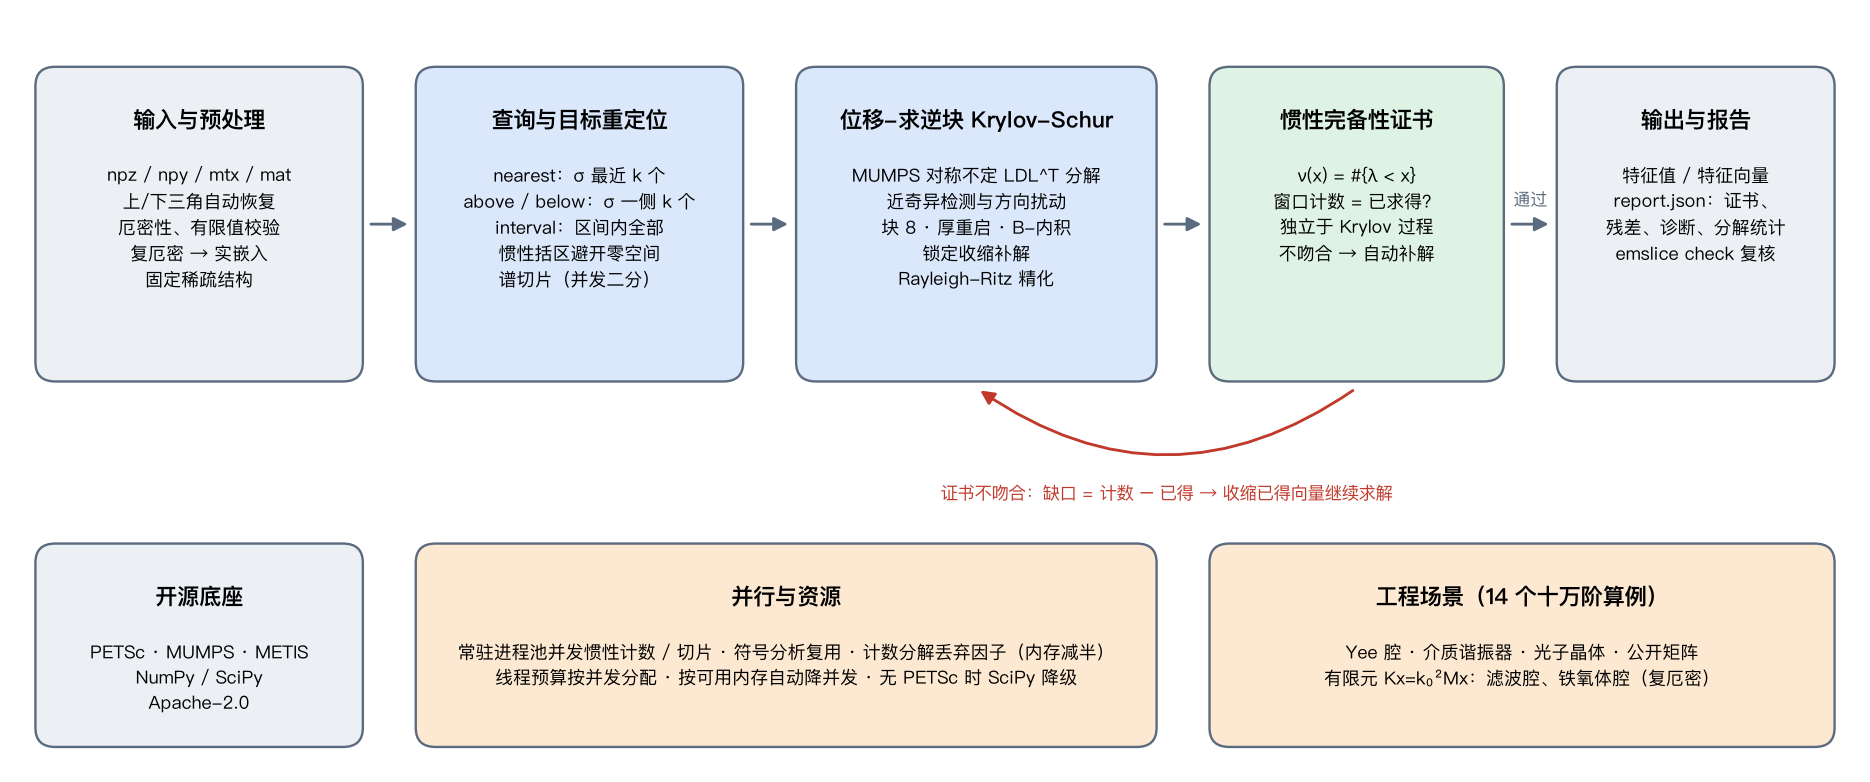
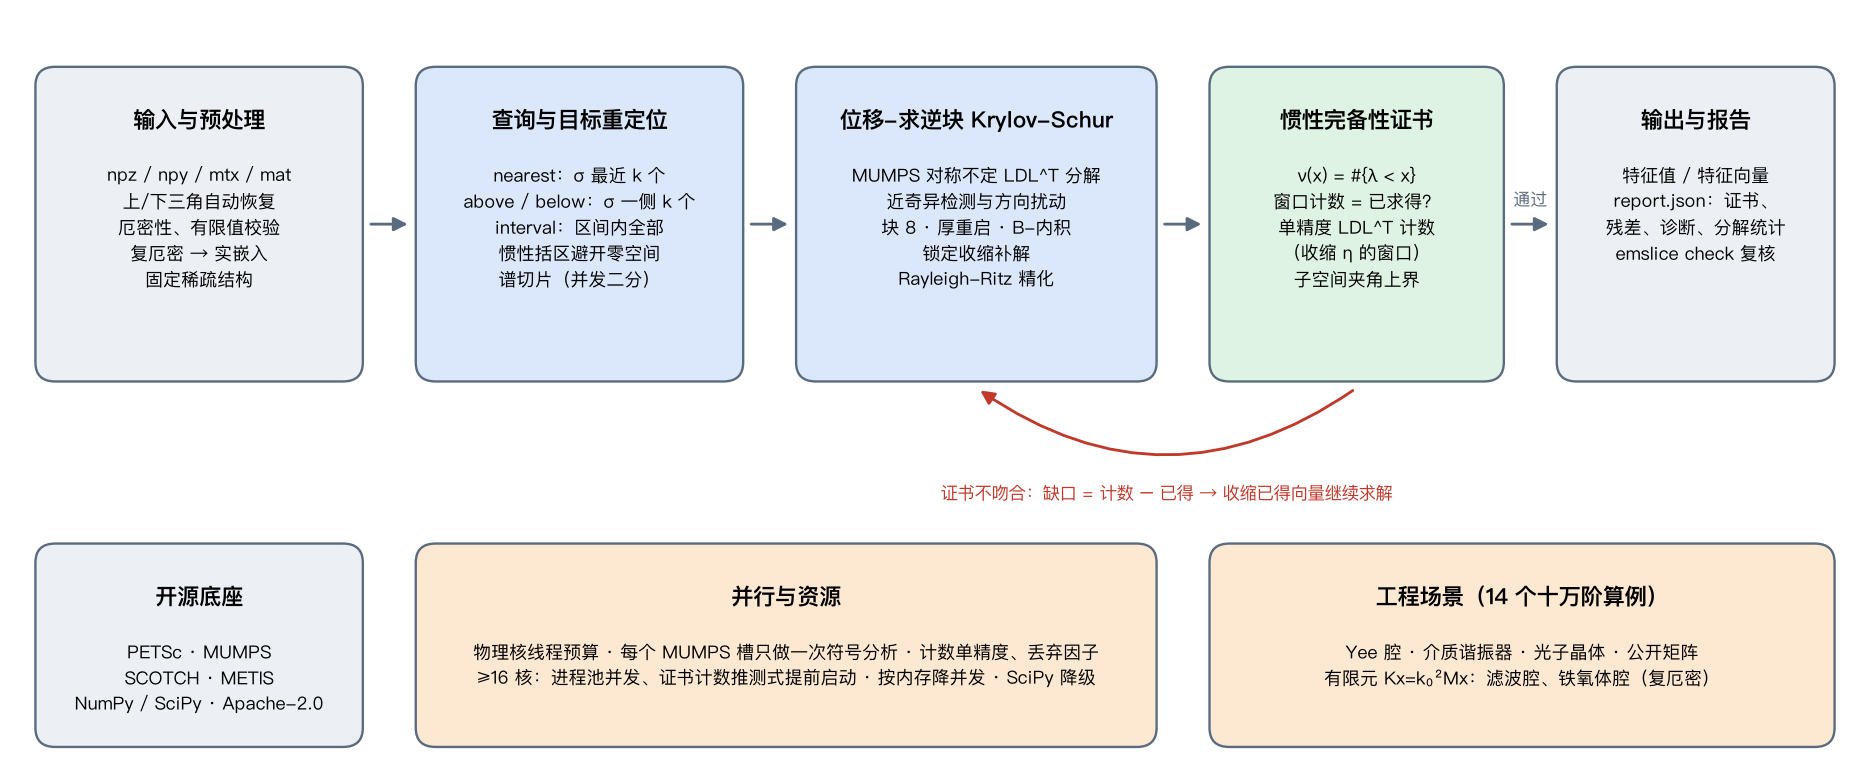
子空间夹角上界：广义问题以 Jacobi-PCG 求 ‖R‖_{B⁻¹}（不再调用 eigsh 估计 λmin(B)，十万阶质量阵上 68 s → 约 1 s）；架构图与汇总脚本

Changed region(s): [[0.2481, 0.798, 0.5893, 0.89], [0.031, 0.8286, 0.1861, 0.9207], [0.6824, 0.2762, 0.7754, 0.3683]]

diff --git a/emslice/solver.py b/emslice/solver.py
@@ -55,7 +55,7 @@ class Options:
     threads: int | None = None
     seed: int = 0
     refine_steps: int = 6
-    workers: int | str = "auto"     # 惯性计数并发进程数（auto = min(3, 线程预算/2)，每进程至少 2 线程）
+    workers: int | str = "auto"     # 计数/切片子进程数（auto：线程预算 ≥16 时 min(3, 预算/8)，否则不开进程池、主进程串行）
     blr: float | None = None        # MUMPS 块低秩压缩精度（None = 关闭）
 
 
@@ -380,6 +380,32 @@ class Solver:
         w, S = la.eigh(Hm, G)
         return w, X @ S
 
+    def _binv_norms(self, R):
+        """各列的 ‖r‖_{B⁻¹} = sqrt(rᴴB⁻¹r)：Jacobi 预条件共轭梯度解 BW = R（B 对称正定，质量阵条件数不大，
+        十万阶有限元质量阵几十步收敛）。B 缺省时即 2-范数。"""
+        if self.B is None:
+            return np.linalg.norm(R, axis=0)
+        d = np.real(self.B.diagonal())
+        W = np.zeros_like(R)
+        Rr = R.copy()
+        Z = Rr / d[:, None]
+        P = Z.copy()
+        rz = np.real(np.einsum("ij,ij->j", Rr.conj(), Z))
+        r0 = np.maximum(np.linalg.norm(R, axis=0), np.finfo(float).tiny)
+        for _ in range(2000):
+            BP = self.B @ P
+            pbp = np.real(np.einsum("ij,ij->j", P.conj(), BP))
+            alpha = np.where(pbp > 0, rz / np.where(pbp > 0, pbp, 1.0), 0.0)
+            W += P * alpha
+            Rr -= BP * alpha
+            if np.all(np.linalg.norm(Rr, axis=0) <= 1e-4 * r0):   # 二次型 rᴴB⁻¹r 的相对误差约为其平方（~1e-8）
+                break
+            Z = Rr / d[:, None]
+            rz_new = np.real(np.einsum("ij,ij->j", Rr.conj(), Z))
+            P = Z + P * np.where(rz > 0, rz_new / np.where(rz > 0, rz, 1.0), 0.0)
+            rz = rz_new
+        return np.sqrt(np.maximum(np.real(np.einsum("ij,ij->j", R.conj(), W)), 0.0))
+
     def _angle_bounds(self, lam, X):
         """特征向量子空间夹角的后验上界（Davis–Kahan sinΘ 定理）。
 
@@ -388,20 +414,16 @@ class Solver:
         δ_C 为簇到“簇外真实特征值”的距离。完备性证书保证窗口内的真实特征值都已求得（各在其 Ritz 值的残差半径内），
         窗口外的特征值离簇至少到窗口边界的距离，因此 δ_C 有可靠下界——没有证书时这一下界无从得知。
         落在证书窗口外的特征值（如与第 k 个并列、按内窗口证书接受的副本）不给上界。
-        广义问题以 λ_min(B) 的 Lanczos 估计折算 B^{-1/2}（估计值，报告中注明）。"""
+        广义问题的 ‖·‖_{B⁻¹} 由共轭梯度求得（见 _binv_norms）。"""
         lo, hi, known = self._known
         known = np.sort(np.asarray(known, dtype=float))
-        bmin = 1.0
-        if self.B is not None:
-            try:
-                import scipy.sparse.linalg as spla
-
-                bmin = 0.5 * float(spla.eigsh(self.B, k=1, which="SA", tol=1e-3, return_eigenvectors=False)[0])
-            except Exception:
-                return dict(subspace_sin_bound_max=None)
         tol_c = 1e-8 * max(np.abs(lam).max(), 1e-3 * self.nA)
         cuts = np.flatnonzero(np.diff(lam) > tol_c) + 1
-        rmax = float(self.residuals(lam, X)[0].max()) / np.sqrt(bmin)
+        # Rayleigh-Ritz 给出的 Ritz 向量彼此 B-正交：按 B-范数归一后各列残差的 ‖·‖_{B⁻¹} 只需一次共轭梯度
+        BX = X if self.B is None else self.B @ X
+        xb = np.sqrt(np.maximum(np.real(np.einsum("ij,ij->j", X.conj(), BX)), np.finfo(float).tiny))
+        nb = self._binv_norms((self.A @ X - BX * lam[None, :]) / xb[None, :])
+        rmax = float(nb.max())
         out = np.full(lam.size, np.nan)
         for idx in np.split(np.arange(lam.size), cuts):
             c_lo, c_hi = lam[idx[0]], lam[idx[-1]]
@@ -414,19 +436,10 @@ class Solver:
             delta = min(gaps)
             if delta <= 0:
                 continue
-            Xc = X[:, idx]
-            BXc = Xc if self.B is None else self.B @ Xc
-            G = Xc.conj().T @ BXc
-            Lc = np.linalg.cholesky(0.5 * (G + G.conj().T))
-            Q = np.linalg.solve(Lc, Xc.conj().T).conj().T          # B-正交化
-            BQ = Q if self.B is None else self.B @ Q
-            Hc = Q.conj().T @ (self.A @ Q)
-            R = self.A @ Q - BQ @ (0.5 * (Hc + Hc.conj().T))
-            out[idx] = min(1.0, np.linalg.norm(R) / np.sqrt(bmin) / delta)
+            out[idx] = min(1.0, float(np.sqrt(np.sum(nb[idx] ** 2))) / delta)
         ok = out[np.isfinite(out)]
         return dict(subspace_sin_bound_max=float(ok.max()) if ok.size else None,
-                    per_eig_subspace_sin_bound=[None if not np.isfinite(v) else float(v) for v in out],
-                    subspace_bound_kind="rigorous" if self.B is None else "estimate(λmin(B) Lanczos)")
+                    per_eig_subspace_sin_bound=[None if not np.isfinite(v) else float(v) for v in out])
 
     # ------------------------------------------------------- 一次位移-求逆求解
     def _shift_invert(self, F, shift, nev, which, locked=None, block=None, v0=None, monitor=None):

diff --git a/bench/summary.py b/bench/summary.py
@@ -1,0 +1,104 @@
+"""合并多个 results 目录并生成文档用的对比表（Markdown）。
+
+python bench/summary.py --out results/kunpeng8-final results/kunpeng8 results/kunpeng8-scipy \
+    --override results/kunpeng8-cplx3 --baseline results/kunpeng8-v01
+
+* 依次读入各目录的 results.jsonl，同一 (算例, 求解器) 以后读入的为准；--override 目录最后读入；
+* --baseline 目录里的 emslice 结果作为“v0.1”列；
+* 输出合并后的 results.jsonl（供 bench/report.py 出图）与 summary.md（文档主表）。
+"""
+from __future__ import annotations
+
+import argparse
+import json
+import os
+
+TITLE = {
+    "cube_mid_band": "立方腔目标频段（σ 恰为 18 重谐振点）",
+    "cube_low_freq": "低频：σ≈0 以上 20 个物理模式（3.2 万重零空间）",
+    "cube_near_singular": "近奇异：σ 与谐振点相对差 1e-13",
+    "cube_null_cluster": "σ 落在零空间上",
+    "cavity_upper_storage": "仅存上三角输入",
+    "dielectric_puck": "介质谐振器（σ 以上 20 个）",
+    "bloch_complex_hermitian": "复厄密（Bloch 周期）",
+    "photonic_crystal": "光子晶体（复厄密 + 介质柱）",
+    "suitesparse_2cubes_low": "公开矩阵 2cubes_sphere 最低 30 个",
+    "suitesparse_2cubes_band": "公开矩阵 2cubes_sphere σ=40 附近 20 个",
+    "fem_cavity_low": "FEM 空腔低频（1.3 万维零空间）",
+    "fem_dr_low": "FEM 介质谐振器低频前 10 个",
+    "fem_dr_band": "FEM 介质谐振器 5 GHz 附近 20 个",
+    "fem_ferrite_band": "FEM 铁氧体腔（复厄密）8.5 GHz 附近 8 个",
+}
+
+
+def load(d):
+    out = {}
+    p = os.path.join(d, "results.jsonl")
+    if not os.path.exists(p):
+        return out
+    for line in open(p, encoding="utf-8"):
+        r = json.loads(line)
+        out[(r["name"], r["solver"])] = r
+    return out
+
+
+def cell(r, ref_k=None, emslice=False):
+    if r is None:
+        return "—"
+    err = r.get("error")
+    if err:
+        return "**超时**" if str(err).startswith("timeout") else "**失败**"
+    t = f"{r['seconds']:.1f} s"
+    back = r.get("backward_max")
+    k = r.get("k") or 0
+    if ref_k is not None and k < ref_k:
+        return f"{t} **返回 {k} 个**" if k == 0 else f"{t} **漏 {ref_k - k} 个**"
+    if (r.get("missing_vs_ref") or 0) > 0:
+        return f"{t} **漏 {r['missing_vs_ref']} 个**"
+    if back is None:
+        return t
+    s = f"{back:.0e}".replace("e-0", "e-")
+    if back > 1e-8:
+        return f"{t} **后向误差 {s}**"
+    if emslice:
+        return f"{t} √ {s}" if r.get("certified") else f"{t} {s}"
+    return f"{t} {s}"
+
+
+def main():
+    ap = argparse.ArgumentParser()
+    ap.add_argument("dirs", nargs="+")
+    ap.add_argument("--override", nargs="*", default=[])
+    ap.add_argument("--baseline")
+    ap.add_argument("--out", required=True)
+    a = ap.parse_args()
+    rows = {}
+    for d in a.dirs + a.override:
+        rows.update(load(d))
+    base = load(a.baseline) if a.baseline else {}
+    os.makedirs(a.out, exist_ok=True)
+    with open(os.path.join(a.out, "results.jsonl"), "w", encoding="utf-8") as f:
+        for r in rows.values():
+            f.write(json.dumps(r, ensure_ascii=False) + "\n")
+    names = [n for n in TITLE if any(k[0] == n for k in rows)]
+    lines = ["| 算例（n≈10 万） | emslice 含证书 | emslice 快速 | v0.1 含证书 | SLEPc | SciPy | 峰值内存 emslice / SLEPc |",
+             "|---|---|---|---|---|---|---|"]
+    for n in names:
+        e = rows.get((n, "emslice"))
+        ref_k = e.get("k") if e else None
+        b = base.get((n, "emslice"))
+        sl = rows.get((n, "slepc"))
+        mem = lambda r: (max(v for v in (r.get("peak_tree_mb"), r.get("peak_rss_mb")) if v) if r else None)
+        me, ms = mem(e), mem(sl)
+        lines.append("| " + " | ".join([
+            TITLE[n], cell(e, emslice=True), cell(rows.get((n, "emslice-noverify")), ref_k),
+            f"{b['seconds']:.1f} s" if b and not b.get("error") else "—",
+            cell(sl, ref_k), cell(rows.get((n, "scipy")), ref_k),
+            f"{me / 1024:.1f} / {ms / 1024:.1f} GB" if me and ms else "—"]) + " |")
+    md = "\n".join(lines) + "\n"
+    open(os.path.join(a.out, "summary.md"), "w", encoding="utf-8").write(md)
+    print(md)
+
+
+if __name__ == "__main__":
+    main()

diff --git a/docs/make_arch.py b/docs/make_arch.py
@@ -39,7 +39,7 @@ def arrow(x0, y0, x1, y1, text="", color="#5b6b7f", rad=0.0):
 box(1, 24, 19, 19, "输入与预处理", "npz / npy / mtx / mat\n上/下三角自动恢复\n厄密性、有限值校验\n复厄密 → 实嵌入\n固定稀疏结构", GRAY)
 box(24, 24, 19, 19, "查询与目标重定位", "nearest：σ 最近 k 个\nabove / below：σ 一侧 k 个\ninterval：区间内全部\n惯性括区避开零空间\n谱切片（并发二分）", BLUE)
 box(47, 24, 21, 19, "位移-求逆块 Krylov-Schur", "MUMPS 对称不定 LDL^T 分解\n近奇异检测与方向扰动\n块 8 · 厚重启 · B-内积\n锁定收缩补解\nRayleigh-Ritz 精化", BLUE)
-box(72, 24, 17, 19, "惯性完备性证书", "ν(x) = #{λ < x}\n窗口计数 = 已求得？\n独立于 Krylov 过程\n不吻合 → 自动补解", GREEN)
+box(72, 24, 17, 19, "惯性完备性证书", "ν(x) = #{λ < x}\n窗口计数 = 已求得？\n单精度 LDL^T 计数\n（收缩 η 的窗口）\n子空间夹角上界", GREEN)
 box(93, 24, 16, 19, "输出与报告", "特征值 / 特征向量\nreport.json：证书、\n残差、诊断、分解统计\nemslice check 复核", GRAY)
 arrow(20.6, 33.5, 23.4, 33.5)
 arrow(43.6, 33.5, 46.4, 33.5)
@@ -48,9 +48,9 @@ arrow(89.6, 33.5, 92.4, 33.5, "通过")
 arrow(80.5, 23.2, 57.5, 23.2, color="#c0392b", rad=-0.35)
 ax.text(69, 16.2, "证书不吻合：缺口 = 计数 − 已得 → 收缩已得向量继续求解", ha="center", fontsize=7.4, color="#c0392b")
 
-box(24, 1.0, 44, 12.0, "并行与资源", "常驻进程池并发惯性计数 / 切片 · 符号分析复用 · 计数分解丢弃因子（内存减半）\n线程预算按并发分配 · 按可用内存自动降并发 · 无 PETSc 时 SciPy 降级", ORANGE)
+box(24, 1.0, 44, 12.0, "并行与资源", "物理核线程预算 · 每个 MUMPS 槽只做一次符号分析 · 计数单精度、丢弃因子\n≥16 核：进程池并发、证书计数推测式提前启动 · 按内存降并发 · SciPy 降级", ORANGE)
 box(72, 1.0, 37, 12.0, "工程场景（14 个十万阶算例）", "Yee 腔 · 介质谐振器 · 光子晶体 · 公开矩阵\n有限元 Kx=k₀²Mx：滤波腔、铁氧体腔（复厄密）", ORANGE)
-box(1, 1.0, 19, 12.0, "开源底座", "PETSc · MUMPS · METIS\nNumPy / SciPy\nApache-2.0", GRAY)
+box(1, 1.0, 19, 12.0, "开源底座", "PETSc · MUMPS\nSCOTCH · METIS\nNumPy / SciPy · Apache-2.0", GRAY)
 fig.tight_layout()
 out = os.path.join(os.path.dirname(os.path.abspath(__file__)), "arch.png")
 fig.savefig(out, dpi=170)
